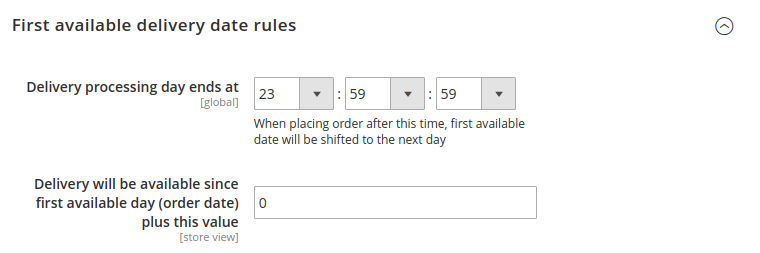
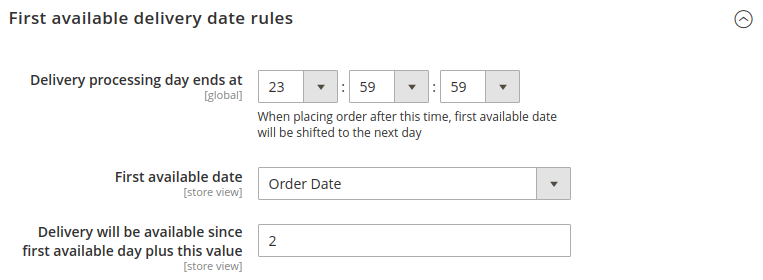
DeliveryDate 1.6.0

diff --git a/m2/extensions/delivery-date/configuration.md b/m2/extensions/delivery-date/configuration.md
@@ -50,7 +50,8 @@ Time Options| Set available timeranges
 Option                                      | Description
 :-------------------------------------------|:-----------------------------------
 Delivery processing day ends at             | Orders placed afterwards will be considered as next day orders
-Delivery will be available since first available day (order date) plus this value | Delivery date offset in days
+First available date                        | First available date calculation rule. Choose between "Order date" and "First Business Day since Order Date"
+Delivery will be available since first available day plus this value | Delivery date offset in days
 
 ### Last available delivery date rules
 

diff --git a/m2/extensions/delivery-date/changelog.md b/m2/extensions/delivery-date/changelog.md
@@ -7,6 +7,15 @@ category: Delivery Date
 
 # Changelog
 
+### Version 1.6.0
+
+> Jan 25, 2021
+
+ -  Added ability to calculate delivery date offset
+    [since first business day](/m2/extensions/delivery-date/configuration/#first-available-delivery-date-rules)
+    after order was placed.
+ -  Fixed ability to place order with invalid delivery date value.
+
 ### Version 1.5.8
 
 > Jan 13, 2021
